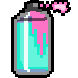
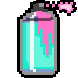
positioning and image fix

diff --git a/src/View/ViewMap/ViewRoom.java b/src/View/ViewMap/ViewRoom.java
@@ -67,7 +67,7 @@ public class ViewRoom extends JComponent implements Subscriber {
 		room = r;
 		coordinates = pos;
 		image = ImageReader.loadImage("res/images/test/testroom.png");
-		size = new Size(100 + r.getCapacity() * 68,220);
+		size = new Size(r.getCapacity() * 90,220);
 		setFixedItemPositions();
 		setFixedCharacterPositions();
 		initRoom();
@@ -79,10 +79,11 @@ public class ViewRoom extends JComponent implements Subscriber {
 	private void setFixedItemPositions() {
 		if(!room.getItems().isEmpty()){
 			fixedItemPositions = new Coordinates[room.getItems().size()];
-			int startingXPos = coordinates.getX() + (size.getWidth() - (room.getItems().size() * 40 + 15)) / 2;
+			int startingXPos = coordinates.getX() + (size.getWidth() - (room.getItems().size() * 50 )) / 2;
 			for(int i = 0; i<room.getItems().size(); i++){
 				startingXPos += 5;
 				fixedItemPositions[i] = new Coordinates(startingXPos + i * 40, coordinates.getY() + size.getHeight() * 7/9);
+				startingXPos += 5;
 			}
 		}
 	}
@@ -90,10 +91,11 @@ public class ViewRoom extends JComponent implements Subscriber {
 	private void setFixedCharacterPositions() {
 		if(!room.getCharacters().isEmpty()){
 			fixedCharacterPositions = new Coordinates[room.getCharacters().size()];
-			int startingXPos = coordinates.getX() + (size.getWidth() - (room.getCharacters().size() * 80 + 50)) / 2;
+			int startingXPos = coordinates.getX() + (size.getWidth() - (room.getCharacters().size() * 84)) / 2;
 			for(int i = 0; i<room.getCharacters().size(); i++){
-				startingXPos += 25;
+				startingXPos += 10;
 				fixedCharacterPositions[i] = new Coordinates(startingXPos + i * 80, coordinates.getY()+10);
+
 			}
 		}
 	}

diff --git a/src/ProtoUtil/ProtoUtil.java b/src/ProtoUtil/ProtoUtil.java
@@ -39,7 +39,7 @@ public class ProtoUtil {
 	private static final String RESET = "\033[0m";  // Text Reset
     private static final String RED = "\033[0;31m";     // RED
     private static final String GREEN = "\033[0;32m";   // GREEN
-	public static boolean aa=true;
+	public static int aa=0;
 	private static final String dirName = "test/";
     private static PrintStream logOutput = null;
     
@@ -300,7 +300,7 @@ public class ProtoUtil {
     		test(args);	// első parancssori argumentum "test" összes teszt futtatása: "test all"
     	}
     	else {
-    		random = new MyRandom(true);
+    		random = new MyRandom(false);
     		Student reds=new Student();
     		Student blues=new Student();
     		PlayerController red = new PlayerController(SelectionColor.Red, reds);
@@ -318,18 +318,16 @@ public class ProtoUtil {
 		        	mf.setVisible(true);
                 }
         	});
-            Timer timer = new Timer(300, a ->{
+            Timer timer = new Timer(1000, a ->{
                     //System.out.println("update()");
                     //viewLabyrinth.roomsInLabyrinth.get(0).coordinates.x+=1;
                     //viewLabyrinth.roomsInLabyrinth.get(2).coordinates.x-=1;
                     //viewLabyrinth.roomsInLabyrinth.get(0).itemsInRoom.get(0).coordinates.x+=2;
 					mf.container.repaint();
-					if(aa)
-					reds.enterRoom(labyrinth.getRooms().get(2));
-					else
-					reds.enterRoom(labyrinth.getRooms().get(3));
-					aa=!aa;
-					labyrinth.update();
+					reds.enterRoom(labyrinth.getRooms().get(aa++%10));
+
+
+					//labyrinth.update();
 					//labyrinth.update();
             }
             );

diff --git a/src/Map/Labyrinth.java b/src/Map/Labyrinth.java
@@ -241,16 +241,16 @@ public class Labyrinth implements iTask{
 		ProtoUtil.printLog("generateRooms");
 		
 		// szobák legenerálása
-		Room r1 = new Room(ProtoUtil.random.nextInt(3, 2) + 1);
-		Room r2 = new Room(ProtoUtil.random.nextInt(3, 2) + 1);
-		Room r3 = new Room(ProtoUtil.random.nextInt(3, 2) + 1);
-		Room r4 = new Room(ProtoUtil.random.nextInt(3, 2) + 1);
-		Room r5 = new Room(ProtoUtil.random.nextInt(3, 2) + 1);
-		Room r6 = new Room(ProtoUtil.random.nextInt(3, 2) + 1);
-		Room r7 = new Room(ProtoUtil.random.nextInt(3, 2) + 1);
-		Room r8 = new Room(ProtoUtil.random.nextInt(3, 2) + 1);
-		Room r9 = new Room(ProtoUtil.random.nextInt(3, 2) + 1);
-		Room r10 = new Room(ProtoUtil.random.nextInt(3, 2) + 1);
+		Room r1 = new Room(ProtoUtil.random.nextInt(3, 2) + 2);
+		Room r2 = new Room(ProtoUtil.random.nextInt(3, 2) + 2);
+		Room r3 = new Room(ProtoUtil.random.nextInt(3, 2) + 2);
+		Room r4 = new Room(ProtoUtil.random.nextInt(3, 2) + 2);
+		Room r5 = new Room(ProtoUtil.random.nextInt(3, 2) + 2);
+		Room r6 = new Room(ProtoUtil.random.nextInt(3, 2) + 2);
+		Room r7 = new Room(ProtoUtil.random.nextInt(3, 2) + 2);
+		Room r8 = new Room(ProtoUtil.random.nextInt(3, 2) + 2);
+		Room r9 = new Room(ProtoUtil.random.nextInt(3, 2) + 2);
+		Room r10 = new Room(ProtoUtil.random.nextInt(3, 2) + 2);
 		rooms.add(r1);
 		rooms.add(r2);
 		rooms.add(r3);

diff --git a/src/View/ViewMap/ViewLabyrinth.java b/src/View/ViewMap/ViewLabyrinth.java
@@ -48,7 +48,7 @@ public class ViewLabyrinth extends JComponent implements Subscriber {
 	 */
 	private Coordinates[] fixedRoomPositions = {new Coordinates(71,50), new Coordinates(542,30), new Coordinates(964,30), new Coordinates(1410,50),
 														new Coordinates(252,300), new Coordinates(752,300), new Coordinates(1252,300),
-													new Coordinates(332,590), new Coordinates(752,556), new Coordinates(1172,590)
+													new Coordinates(322,560), new Coordinates(742,556), new Coordinates(1132,560)
 	};
 
 	/**
@@ -118,5 +118,7 @@ public class ViewLabyrinth extends JComponent implements Subscriber {
 		g2D.fillRect(1820/2 - 200,
 				815,
 				400,112);
+		g2D.setColor(Color.black);
+		g2D.drawString("Valami",1820/2 - 200,815);
 	}
 }

diff --git a/src/View/ViewItem/ViewBeer.java b/src/View/ViewItem/ViewBeer.java
@@ -28,7 +28,7 @@ public class ViewBeer extends ViewDecayingItem {
 	public void paint(Graphics g) {
 	    // TODO Auto-generated method stub
 		Graphics2D g2D = (Graphics2D) g;
-    	g2D.drawImage(image,coordinates.getX(),coordinates.getY(), size.getWidth(),size.getHeight(),this);
+		g2D.drawImage(image,coordinates.getX(),coordinates.getY(),size.getWidth(),size.getHeight(),null);
 	}
 	
 	@Override

diff --git a/src/View/ViewItem/ViewFakeSlideRule.java b/src/View/ViewItem/ViewFakeSlideRule.java
@@ -20,7 +20,7 @@ public class ViewFakeSlideRule extends ViewNumberOfUsesItem {
 	private FakeSlideRule item;
 	
 	public ViewFakeSlideRule(FakeSlideRule fsr, Coordinates coor) {
-		super("testitem.png", coor);
+		super("sliderule.png", coor);
 		item = fsr;
 		item.subscribe(this);
 	}

diff --git a/src/View/ViewItem/ViewFakeBatSkin.java b/src/View/ViewItem/ViewFakeBatSkin.java
@@ -15,7 +15,7 @@ public class ViewFakeBatSkin extends ViewNumberOfUsesItem {
 	private FakeBatSkin item;
 	
 	public ViewFakeBatSkin(FakeBatSkin fbs, Coordinates coor) {
-		super("testitem.png", coor);
+		super("batskin.png", coor);
 		item = fbs;
 		item.subscribe(this);
 	}

diff --git a/src/View/ViewItem/ViewSlideRule.java b/src/View/ViewItem/ViewSlideRule.java
@@ -27,6 +27,7 @@ public class ViewSlideRule extends ViewNumberOfUsesItem {
 	public void paint(Graphics g) {
 		Graphics2D g2D = (Graphics2D) g;
 		g2D.drawImage(image,coordinates.getX(),coordinates.getY(),size.getWidth(),size.getHeight(),null);
+
 	}
 	
 	@Override
